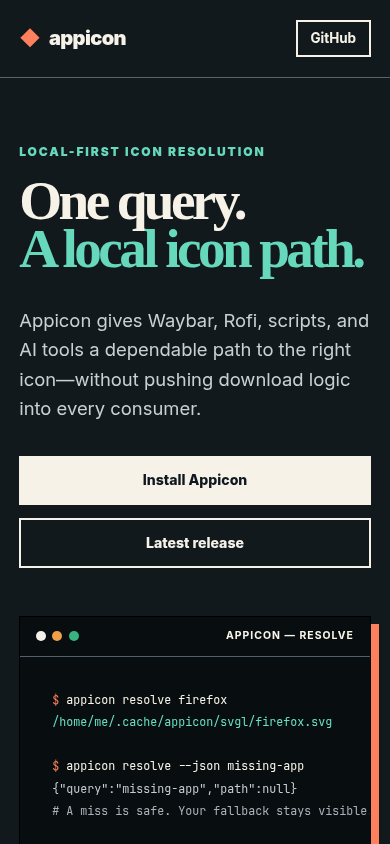
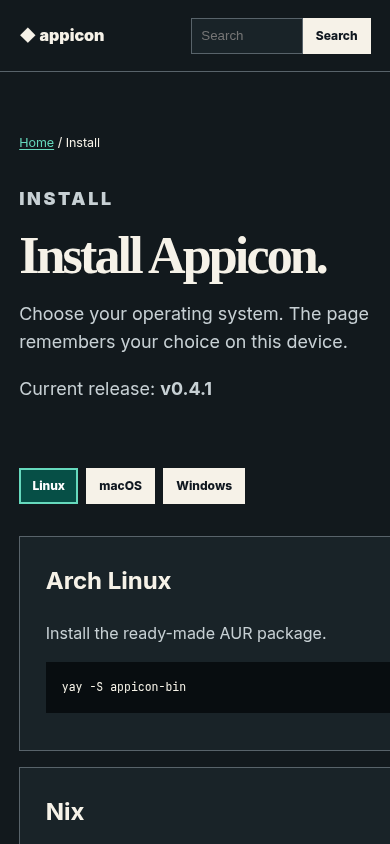
feat(pages): add task-oriented user guides

diff --git a/site/index.html b/site/index.html
@@ -4,22 +4,31 @@
   <meta charset="utf-8">
   <meta name="viewport" content="width=device-width, initial-scale=1">
   <meta name="description" content="Appicon resolves application and brand names to local icon files for desktop tools, scripts, and agents.">
+  <meta property="og:title" content="Appicon — find the right local icon">
+  <meta property="og:description" content="Install Appicon, find an icon, and solve common problems with plain-language guides.">
+  <meta property="og:image" content="https://bolens.github.io/appicon/assets/og.png">
+  <meta name="twitter:card" content="summary_large_image">
   <meta name="theme-color" content="#101820">
   <title>Appicon — local icons, one query away</title>
   <link rel="stylesheet" href="styles.css">
   <link rel="stylesheet" href="guide.css">
   <link rel="stylesheet" href="accessibility.css">
+  <link rel="stylesheet" href="assets/site.css">
+  <link rel="icon" href="assets/favicon.png" type="image/png">
+  <script src="assets/site.js" defer></script>
 </head>
-<body>
+<body data-root="">
   <a class="skip-link" href="#main">Skip to content</a>
   <header class="site-header">
-    <a class="wordmark" href="#top" aria-label="Appicon home"><span aria-hidden="true">◆</span> appicon</a>
+    <a class="wordmark" href="./" aria-label="Appicon home"><span aria-hidden="true">◆</span> appicon</a>
     <nav aria-label="Primary navigation">
-      <a href="#start">Get started</a>
-      <a href="#everyday">Use Appicon</a>
-      <a href="#help">Get help</a>
+      <a href="install/">Install</a>
+      <a href="guide/">Use Appicon</a>
+      <a href="help/">Get help</a>
+      <a href="architecture/">How it works</a>
       <a class="nav-cta" href="https://github.com/bolens/appicon">GitHub</a>
     </nav>
+    <form class="header-search" action="search/" role="search"><label class="sr-only" for="home-search">Search the guides</label><input id="home-search" name="q" type="search" placeholder="Search guides"><button type="submit">Search</button></form>
   </header>
 
   <main id="main">
@@ -29,7 +38,7 @@
         <h1 id="hero-title">One query.<br><span>A local icon path.</span></h1>
         <p class="lede">Appicon gives Waybar, Rofi, scripts, and AI tools a dependable path to the right icon—without pushing download logic into every consumer.</p>
         <div class="actions">
-          <a class="button primary" href="#install">Install Appicon</a>
+          <a class="button primary" href="install/">Install Appicon</a>
           <a class="button secondary" href="https://github.com/bolens/appicon/releases/latest">Latest release</a>
         </div>
       </div>
@@ -59,7 +68,7 @@
       </header>
       <div class="steps">
         <article><span>1</span><h3>Install Appicon</h3><p>Pick the option that matches your system. If you are unsure, use the first option for your system.</p></article>
-        <article><span>2</span><h3>Check the installation</h3><pre tabindex="0"><code>appicon version</code></pre><p>You should see a version number such as <code>v0.4.1</code>.</p></article>
+        <article><span>2</span><h3>Check the installation</h3><pre tabindex="0"><code>appicon version</code></pre><p>You should see the current version, <code>__SITE_VERSION__</code>.</p></article>
         <article><span>3</span><h3>Find an icon</h3><pre tabindex="0"><code>appicon resolve firefox</code></pre><p>Appicon prints a file path. Paste that path into the tool that needs the icon.</p></article>
       </div>
       <div class="install-choices" aria-label="Installation choices">
@@ -82,7 +91,7 @@
         <li><span>04</span><strong>SVGL</strong><small>Cache-first remote fallback</small></li>
         <li class="hit"><span>✓</span><strong>Local path</strong><small>Ready for your consumer</small></li>
       </ol>
-      <p class="architecture-link"><a href="docs/architecture/appicon.html">Explore the interactive architecture map <span aria-hidden="true">→</span></a></p>
+      <p class="architecture-link"><a href="architecture/">Learn how Appicon works <span aria-hidden="true">→</span></a></p>
     </section>
 
     <section class="section features" aria-labelledby="features-title">
@@ -120,14 +129,14 @@
 
     <section class="install" id="install" aria-labelledby="install-title">
       <div><p class="eyebrow">Technical documentation</p><h2 id="install-title">Building or integrating Appicon?</h2><p>The repository documents source builds, configuration files, MCP tools, the daemon, icon packs, schemas, security, and packaging.</p></div>
-      <ul class="technical-links"><li><a href="https://github.com/bolens/appicon/tree/main/docs">Technical documentation</a></li><li><a href="docs/architecture/appicon.html">Interactive architecture map</a></li><li><a href="https://github.com/bolens/appicon/blob/main/docs/consumer-contract.md">Consumer contract</a></li><li><a href="https://github.com/bolens/appicon/blob/main/CONTRIBUTING.md">Contributing guide</a></li></ul>
+      <ul class="technical-links"><li><a href="https://github.com/bolens/appicon/tree/main/docs">Technical documentation</a></li><li><a href="architecture/">How Appicon works</a></li><li><a href="https://github.com/bolens/appicon/blob/main/docs/consumer-contract.md">Consumer contract</a></li><li><a href="https://github.com/bolens/appicon/blob/main/CONTRIBUTING.md">Contributing guide</a></li></ul>
       <a class="button light" href="https://github.com/bolens/appicon">Open the repository</a>
     </section>
   </main>
 
   <footer>
     <p><strong>appicon</strong> · MIT licensed · Built for local-first desktops.</p>
-    <nav aria-label="Footer navigation"><a href="https://github.com/bolens/appicon/releases">Releases</a><a href="https://github.com/bolens/appicon/blob/main/SECURITY.md">Security</a><a href="https://github.com/bolens/appicon/blob/main/LICENSE">License</a></nav>
+    <nav aria-label="Footer navigation"><a href="https://github.com/bolens/appicon/releases">Releases</a><a href="https://github.com/bolens/appicon/blob/main/SECURITY.md">Security</a><a href="https://github.com/bolens/appicon/blob/main/LICENSE">License</a><a href="https://github.com/bolens/appicon/issues/new?title=Pages%20feedback%3A%20&amp;body=Page%3A%20%0A%0AWhat%20would%20make%20this%20page%20more%20helpful%3F%0A">Was this site helpful?</a></nav>
   </footer>
 </body>
 </html>

diff --git a/site/assets/site.css b/site/assets/site.css
@@ -1,0 +1,1 @@
+:root{--guide-bg:#f5f2e9;--guide-card:#fffdf7;--guide-ink:#141b21;--guide-muted:#4d5960;--guide-line:#b9b3a5;--guide-accent:#075f53;--guide-focus:#006dff;--guide-code:#0b1115;--guide-code-text:#f7f4e9;color-scheme:light;font-family:Inter,ui-sans-serif,system-ui,-apple-system,BlinkMacSystemFont,"Segoe UI",sans-serif;font-size:18px;line-height:1.6}*{box-sizing:border-box}html{scroll-behavior:smooth}body{margin:0;background:var(--guide-bg);color:var(--guide-ink)}a{color:var(--guide-accent);text-underline-offset:.2em}a:hover{text-decoration-thickness:3px}a:focus-visible,button:focus-visible,input:focus-visible,pre:focus-visible{outline:4px solid var(--guide-focus);outline-offset:3px}.sr-only{position:absolute!important;width:1px;height:1px;padding:0;margin:-1px;overflow:hidden;clip:rect(0,0,0,0);white-space:nowrap;border:0}.skip-link{position:fixed;z-index:20;left:1rem;top:1rem;transform:translateY(-180%);background:#fff;color:#000;padding:.6rem 1rem;font-weight:800}.skip-link:focus{transform:none}.docs-header{max-width:1120px;margin:auto;padding:1.1rem 2rem;display:flex;align-items:center;justify-content:space-between;border-bottom:1px solid var(--guide-line)}.docs-brand{color:var(--guide-ink);font-weight:900;text-decoration:none}.docs-nav{display:flex;align-items:center;gap:1rem}.docs-nav a{color:var(--guide-ink);font-size:.8rem;font-weight:750;text-decoration:none}.docs-search{display:flex}.docs-search input{width:10rem;border:1px solid var(--guide-line);background:var(--guide-card);color:var(--guide-ink);padding:.45rem .6rem}.docs-search button,.platform-picker button,.copy-button{border:2px solid var(--guide-ink);background:var(--guide-ink);color:#fff;font:inherit;font-size:.75rem;font-weight:850;padding:.4rem .7rem;cursor:pointer}.page-main{max-width:1120px;margin:auto;padding:5rem 2rem 7rem}.breadcrumbs{font-size:.78rem;margin-bottom:2rem}.page-hero{max-width:800px;margin-bottom:4rem}.page-kicker{text-transform:uppercase;letter-spacing:.15em;font-size:.7rem;font-weight:900;color:var(--guide-accent)}.page-hero h1{font-family:Georgia,"Times New Roman",serif;font-size:clamp(3rem,7vw,6rem);line-height:.95;letter-spacing:-.055em;margin:.3rem 0 1.2rem}.page-hero p{font-size:1.12rem;color:var(--guide-muted)}.page-grid{display:grid;grid-template-columns:repeat(2,1fr);gap:1rem}.doc-card{background:var(--guide-card);border:1px solid var(--guide-line);padding:1.6rem}.doc-card h2,.doc-card h3{margin-top:0}.doc-card p{color:var(--guide-muted)}pre{position:relative;background:var(--guide-code);color:var(--guide-code-text);padding:1rem 4.5rem 1rem 1rem;overflow:auto;font-size:.72rem}.copy-button{position:absolute;right:.5rem;top:.5rem;border-color:#c6cdd1;background:#172128}.platform-picker{display:flex;flex-wrap:wrap;gap:.5rem;margin:1.5rem 0 2rem}.platform-picker button[aria-pressed="true"]{background:var(--guide-accent);border-color:var(--guide-accent)}[hidden]{display:none!important}.task-list{border-top:1px solid var(--guide-line)}.task{padding:1.5rem 0;border-bottom:1px solid var(--guide-line);display:grid;grid-template-columns:1fr 1fr;gap:2rem;align-items:start}.task h2{margin-top:0}.callout{margin:2rem 0;padding:1.4rem;background:var(--guide-accent);color:#fff}.callout a{color:#fff}.search-page-form{display:flex;max-width:700px}.search-page-form input{flex:1;min-width:0;padding:.8rem;border:2px solid var(--guide-ink);font:inherit}.search-page-form button{border:2px solid var(--guide-ink);background:var(--guide-ink);color:#fff;padding:.8rem 1rem;font-weight:850}.search-results{list-style:none;padding:0;margin:2rem 0}.search-results li{padding:1rem 0;border-bottom:1px solid var(--guide-line)}.search-results a{font-size:1.1rem;font-weight:850}.search-results p{margin:.25rem 0;color:var(--guide-muted)}.feedback{margin-top:4rem;padding-top:2rem;border-top:1px solid var(--guide-line);font-size:.85rem}.docs-footer{max-width:1120px;margin:auto;padding:2rem;border-top:1px solid var(--guide-line);display:flex;justify-content:space-between;gap:1rem;font-size:.78rem}.docs-footer nav{display:flex;gap:1rem}@media(max-width:850px){.docs-nav>a{display:none}.page-grid,.task{grid-template-columns:1fr}.page-main{padding-top:3rem}}@media(max-width:520px){:root{font-size:16px}.docs-header,.page-main,.docs-footer{padding-inline:1.2rem}.docs-search input{width:7rem}.page-hero h1{font-size:3.25rem}.docs-footer{flex-direction:column}}@media(prefers-reduced-motion:reduce){html{scroll-behavior:auto}*{animation:none!important;transition:none!important}}@media(prefers-color-scheme:dark){:root{color-scheme:dark;--guide-bg:#12191d;--guide-card:#192328;--guide-ink:#f6f2e8;--guide-muted:#c7d0d4;--guide-line:#58636a;--guide-accent:#66d9bd;--guide-focus:#78aaff;--guide-code:#080d10}.docs-search button,.platform-picker button,.search-page-form button{background:#f6f2e8;color:#101820}.platform-picker button[aria-pressed="true"]{background:#064f46;color:#fff}.callout{background:#064f46}}@media(forced-colors: active){*{box-shadow:none!important}.copy-button,.platform-picker button,.docs-search button,.search-page-form button{border:2px solid ButtonText}.platform-picker button[aria-pressed="true"]{outline:3px solid Highlight}.callout{border:2px solid CanvasText}.sr-only{forced-color-adjust:none}}

diff --git a/site/assets/site.js b/site/assets/site.js
@@ -1,0 +1,123 @@
+(() => {
+  "use strict";
+
+  const root = document.body.dataset.root || "";
+  const live = document.createElement("p");
+  live.className = "sr-only";
+  live.setAttribute("aria-live", "polite");
+  document.body.append(live);
+
+  const copyText = async (text) => {
+    if (navigator.clipboard && window.isSecureContext) {
+      await navigator.clipboard.writeText(text);
+      return;
+    }
+    const area = document.createElement("textarea");
+    area.value = text;
+    area.setAttribute("readonly", "");
+    area.style.position = "fixed";
+    area.style.opacity = "0";
+    document.body.append(area);
+    area.select();
+    document.execCommand("copy");
+    area.remove();
+  };
+
+  document.querySelectorAll("pre").forEach((pre) => {
+    if (!pre.querySelector("code") || pre.querySelector(".copy-button")) return;
+    const button = document.createElement("button");
+    button.type = "button";
+    button.className = "copy-button";
+    button.textContent = "Copy";
+    button.setAttribute("aria-label", "Copy command");
+    button.addEventListener("click", async () => {
+      try {
+        await copyText(pre.querySelector("code").innerText);
+        button.textContent = "Copied";
+        live.textContent = "Command copied to clipboard.";
+        window.setTimeout(() => {
+          button.textContent = "Copy";
+        }, 1800);
+      } catch {
+        live.textContent = "Copy failed. Select the command and copy it manually.";
+      }
+    });
+    pre.append(button);
+  });
+
+  const platformButtons = [...document.querySelectorAll("[data-os]")];
+  const platformPanels = [...document.querySelectorAll("[data-platforms]")];
+  const selectPlatform = (platform) => {
+    platformButtons.forEach((button) => {
+      button.setAttribute("aria-pressed", String(button.dataset.os === platform));
+    });
+    platformPanels.forEach((panel) => {
+      panel.hidden = !panel.dataset.platforms.split(" ").includes(platform);
+    });
+    try {
+      localStorage.setItem("docs-platform", platform);
+    } catch {}
+  };
+  if (platformButtons.length) {
+    platformButtons.forEach((button) => {
+      button.addEventListener("click", () => selectPlatform(button.dataset.os));
+    });
+    let selected;
+    try {
+      selected = localStorage.getItem("docs-platform");
+    } catch {}
+    if (!selected) {
+      const platform = navigator.platform.toLowerCase();
+      selected = platform.includes("win") ? "windows" : platform.includes("mac") ? "macos" : "linux";
+    }
+    if (!platformButtons.some((button) => button.dataset.os === selected)) selected = platformButtons[0].dataset.os;
+    selectPlatform(selected);
+  }
+
+  const searchForm = document.querySelector("[data-search-form]");
+  if (searchForm && !document.querySelector("[data-search-results]")) {
+    searchForm.addEventListener("submit", (event) => {
+      event.preventDefault();
+      const query = new FormData(searchForm).get("q");
+      window.location.href = root + "search/?q=" + encodeURIComponent(query);
+    });
+  }
+
+  const results = document.querySelector("[data-search-results]");
+  if (results) {
+    const input = document.querySelector("[data-search-input]");
+    const count = document.querySelector("[data-search-count]");
+    const runSearch = async () => {
+      const query = input.value.trim().toLowerCase();
+      const response = await fetch(root + "search-index.json");
+      const records = await response.json();
+      const matches = query
+        ? records.filter((record) => (record.title + " " + record.summary + " " + record.keywords).toLowerCase().includes(query))
+        : records;
+      results.replaceChildren(...matches.map((record) => {
+        const item = document.createElement("li");
+        const link = document.createElement("a");
+        link.href = root + record.url;
+        link.textContent = record.title;
+        const summary = document.createElement("p");
+        summary.textContent = record.summary;
+        item.append(link, summary);
+        return item;
+      }));
+      count.textContent = matches.length + (matches.length === 1 ? " result" : " results");
+    };
+    const initial = new URLSearchParams(window.location.search).get("q") || "";
+    input.value = initial;
+    document.querySelector("[data-search-form]").addEventListener("submit", (event) => {
+      event.preventDefault();
+      const url = new URL(window.location.href);
+      url.searchParams.set("q", input.value);
+      history.replaceState({}, "", url);
+      runSearch();
+    });
+    runSearch().catch(() => {
+      count.textContent = "Search is unavailable. Use the navigation links instead.";
+    });
+  }
+})();
+

diff --git a/site/install/index.html b/site/install/index.html
@@ -1,0 +1,29 @@
+<!doctype html>
+<html lang="en">
+<head>
+  <meta charset="utf-8">
+  <meta name="viewport" content="width=device-width, initial-scale=1">
+  <meta name="description" content="Choose the Appicon installation instructions for your operating system.">
+  <meta property="og:title" content="Install Appicon | Appicon">
+  <meta property="og:description" content="Choose the Appicon installation instructions for your operating system.">
+  <meta property="og:image" content="https://bolens.github.io/appicon/assets/og.png">
+  <meta name="twitter:card" content="summary_large_image">
+  <title>Install Appicon | Appicon</title>
+  <link rel="icon" type="image/png" href="../assets/favicon.png">
+  <link rel="stylesheet" href="../assets/site.css">
+  <script src="../assets/site.js" defer></script>
+</head>
+<body data-root="../">
+  <a class="skip-link" href="#main">Skip to content</a>
+  <header class="docs-header">
+    <a class="docs-brand" href="../">◆ appicon</a>
+    <nav class="docs-nav" aria-label="Documentation">
+      <a href="../install/">Install</a><a href="../guide/">Use</a><a href="../help/">Help</a><a href="../architecture/">Architecture</a>
+      <form class="docs-search" role="search" data-search-form><label class="sr-only" for="site-search">Search guides</label><input id="site-search" name="q" type="search" placeholder="Search"><button>Search</button></form>
+    </nav>
+  </header>
+  <main class="page-main" id="main"><p class="breadcrumbs"><a href="../">Home</a> / Install</p><header class="page-hero"><p class="page-kicker">Install</p><h1>Install Appicon.</h1><p>Choose your operating system. The page remembers your choice on this device.</p><p>Current release: <strong>__SITE_VERSION__</strong></p></header><div class="platform-picker" role="group" aria-label="Operating system"><button type="button" data-os="linux" aria-pressed="false">Linux</button><button type="button" data-os="macos" aria-pressed="false">macOS</button><button type="button" data-os="windows" aria-pressed="false">Windows</button></div><section data-platforms="linux"><div class="page-grid"><article class="doc-card"><h2>Arch Linux</h2><p>Install the ready-made AUR package.</p><pre tabindex="0"><code>yay -S appicon-bin</code></pre></article><article class="doc-card"><h2>Nix</h2><p>Install the ready-made flake package.</p><pre tabindex="0"><code>nix profile install github:bolens/appicon#appicon-bin</code></pre></article></div></section><section data-platforms="macos"><article class="doc-card"><h2>Download the macOS archive</h2><p>Open the latest release and choose the archive for your Mac processor. Move the <code>appicon</code> file to a directory on your PATH.</p><a href="https://github.com/bolens/appicon/releases/latest">Open the latest release</a></article></section><section data-platforms="windows"><article class="doc-card"><h2>Download the Windows archive</h2><p>Open the latest release and choose the Windows archive. Extract <code>appicon.exe</code> to a directory on your PATH.</p><a href="https://github.com/bolens/appicon/releases/latest">Open the latest release</a></article></section><div class="callout"><h2>Check the installation</h2><pre tabindex="0"><code>appicon version</code></pre><p>The command prints <code>__SITE_VERSION__</code>.</p></div><p class="feedback">Did this page answer your question? <a href="https://github.com/bolens/appicon/issues/new?title=Pages%20feedback%3A%20">Suggest an improvement</a>.</p></main>
+  <footer class="docs-footer"><p>Appicon <span data-version>__SITE_VERSION__</span> · MIT licensed</p><nav aria-label="Footer"><a href="https://github.com/bolens/appicon">Repository</a><a href="https://github.com/bolens/appicon/releases/latest">Release</a></nav></footer>
+</body>
+</html>
+

diff --git a/site/guide/index.html b/site/guide/index.html
@@ -1,0 +1,29 @@
+<!doctype html>
+<html lang="en">
+<head>
+  <meta charset="utf-8">
+  <meta name="viewport" content="width=device-width, initial-scale=1">
+  <meta name="description" content="Resolve icons, work offline, create PNG files, and correct matches with Appicon.">
+  <meta property="og:title" content="Use Appicon | Appicon">
+  <meta property="og:description" content="Resolve icons, work offline, create PNG files, and correct matches with Appicon.">
+  <meta property="og:image" content="https://bolens.github.io/appicon/assets/og.png">
+  <meta name="twitter:card" content="summary_large_image">
+  <title>Use Appicon | Appicon</title>
+  <link rel="icon" type="image/png" href="../assets/favicon.png">
+  <link rel="stylesheet" href="../assets/site.css">
+  <script src="../assets/site.js" defer></script>
+</head>
+<body data-root="../">
+  <a class="skip-link" href="#main">Skip to content</a>
+  <header class="docs-header">
+    <a class="docs-brand" href="../">◆ appicon</a>
+    <nav class="docs-nav" aria-label="Documentation">
+      <a href="../install/">Install</a><a href="../guide/">Use</a><a href="../help/">Help</a><a href="../architecture/">Architecture</a>
+      <form class="docs-search" role="search" data-search-form><label class="sr-only" for="site-search">Search guides</label><input id="site-search" name="q" type="search" placeholder="Search"><button>Search</button></form>
+    </nav>
+  </header>
+  <main class="page-main" id="main"><p class="breadcrumbs"><a href="../">Home</a> / Use</p><header class="page-hero"><p class="page-kicker">Common tasks</p><h1>Use Appicon.</h1><p>Start with the application name shown in your launcher. Appicon prints a local file path.</p></header><div class="task-list"><article class="task"><div><h2>Find one icon</h2><p>Use the application name that you see.</p></div><pre tabindex="0"><code>appicon resolve firefox</code></pre></article><article class="task"><div><h2>Create a small PNG</h2><p>Use this command for a bar or menu that cannot display SVG files.</p></div><pre tabindex="0"><code>appicon resolve --format png --size 24 firefox</code></pre></article><article class="task"><div><h2>Work offline</h2><p>Offline mode uses only icons Appicon already has.</p></div><pre tabindex="0"><code>appicon resolve --offline firefox</code></pre></article><article class="task"><div><h2>Correct a wrong match</h2><p>Map your application name to a known icon.</p></div><pre tabindex="0"><code>appicon override set my-browser firefox</code></pre></article></div><div class="callout"><h2>If Appicon prints nothing</h2><p>Appicon did not find the icon. Try a shorter name or check the spelling. Keep a fallback icon in your bar or launcher.</p></div><p class="feedback">Did this page answer your question? <a href="https://github.com/bolens/appicon/issues/new?title=Pages%20feedback%3A%20">Suggest an improvement</a>.</p></main>
+  <footer class="docs-footer"><p>Appicon <span data-version>__SITE_VERSION__</span> · MIT licensed</p><nav aria-label="Footer"><a href="https://github.com/bolens/appicon">Repository</a><a href="https://github.com/bolens/appicon/releases/latest">Release</a></nav></footer>
+</body>
+</html>
+

diff --git a/site/help/index.html b/site/help/index.html
@@ -1,0 +1,30 @@
+<!doctype html>
+<html lang="en">
+<head>
+  <meta charset="utf-8">
+  <meta name="viewport" content="width=device-width, initial-scale=1">
+  <meta name="description" content="Fix common Appicon icon matching, network, and cache problems.">
+  <meta property="og:title" content="Get help | Appicon">
+  <meta property="og:description" content="Fix common Appicon icon matching, network, and cache problems.">
+  <meta property="og:image" content="https://bolens.github.io/appicon/assets/og.png">
+  <meta name="twitter:card" content="summary_large_image">
+  <title>Get help | Appicon</title>
+  <link rel="icon" type="image/png" href="../assets/favicon.png">
+  <link rel="stylesheet" href="../assets/site.css">
+  <script src="../assets/site.js" defer></script>
+</head>
+<body data-root="../">
+  <a class="skip-link" href="#main">Skip to content</a>
+  <header class="docs-header">
+    <a class="docs-brand" href="../">◆ appicon</a>
+    <nav class="docs-nav" aria-label="Documentation">
+      <a href="../install/">Install</a><a href="../guide/">Use</a><a href="../help/">Help</a><a href="../architecture/">Architecture</a>
+      <form class="docs-search" role="search" data-search-form><label class="sr-only" for="site-search">Search guides</label><input id="site-search" name="q" type="search" placeholder="Search"><button>Search</button></form>
+    </nav>
+  </header>
+  <main class="page-main" id="main"><p class="breadcrumbs"><a href="../">Home</a> / Help</p><header class="page-hero"><p class="page-kicker">Troubleshooting</p><h1>Start with a status check.</h1><pre tabindex="0"><code>appicon status</code></pre></header><div class="page-grid"><article class="doc-card"><h2>The icon is wrong</h2><p>Run <code>appicon resolve --explain NAME</code>. The output names the source. Add an override if you want another match.</p></article><article class="doc-card"><h2>Remote icons do not load</h2><p>Check your enabled sources in the status output. Cached icons continue to work offline.</p></article><article class="doc-card"><h2>The cache is too large</h2><pre tabindex="0"><code>appicon cache stats
+appicon cache prune</code></pre><p>Pruning removes old cached files. It keeps your settings.</p></article><article class="doc-card"><h2>You found a bug</h2><p>Include the output from <code>appicon status</code> and the name you tried. Remove API keys before posting.</p><a href="https://github.com/bolens/appicon/issues/new/choose">Report a problem</a></article></div><p class="feedback">Did this page answer your question? <a href="https://github.com/bolens/appicon/issues/new?title=Pages%20feedback%3A%20">Suggest an improvement</a>.</p></main>
+  <footer class="docs-footer"><p>Appicon <span data-version>__SITE_VERSION__</span> · MIT licensed</p><nav aria-label="Footer"><a href="https://github.com/bolens/appicon">Repository</a><a href="https://github.com/bolens/appicon/releases/latest">Release</a></nav></footer>
+</body>
+</html>
+

diff --git a/site/architecture/index.html b/site/architecture/index.html
@@ -1,0 +1,29 @@
+<!doctype html>
+<html lang="en">
+<head>
+  <meta charset="utf-8">
+  <meta name="viewport" content="width=device-width, initial-scale=1">
+  <meta name="description" content="A plain-language introduction to the Appicon architecture topology.">
+  <meta property="og:title" content="How Appicon works | Appicon">
+  <meta property="og:description" content="A plain-language introduction to the Appicon architecture topology.">
+  <meta property="og:image" content="https://bolens.github.io/appicon/assets/og.png">
+  <meta name="twitter:card" content="summary_large_image">
+  <title>How Appicon works | Appicon</title>
+  <link rel="icon" type="image/png" href="../assets/favicon.png">
+  <link rel="stylesheet" href="../assets/site.css">
+  <script src="../assets/site.js" defer></script>
+</head>
+<body data-root="../">
+  <a class="skip-link" href="#main">Skip to content</a>
+  <header class="docs-header">
+    <a class="docs-brand" href="../">◆ appicon</a>
+    <nav class="docs-nav" aria-label="Documentation">
+      <a href="../install/">Install</a><a href="../guide/">Use</a><a href="../help/">Help</a><a href="../architecture/">Architecture</a>
+      <form class="docs-search" role="search" data-search-form><label class="sr-only" for="site-search">Search guides</label><input id="site-search" name="q" type="search" placeholder="Search"><button>Search</button></form>
+    </nav>
+  </header>
+  <main class="page-main" id="main"><p class="breadcrumbs"><a href="../">Home</a> / Architecture</p><header class="page-hero"><p class="page-kicker">Architecture</p><h1>How Appicon finds an icon.</h1><p>Every request moves through an ordered list of sources. Appicon checks local overrides and desktop files first. It uses an enabled remote source only when local sources miss.</p></header><div class="page-grid"><article class="doc-card"><h2>What the map shows</h2><p>The topology follows requests from the CLI, MCP server, or optional daemon into one shared resolver. It also shows the cache and each icon source.</p></article><article class="doc-card"><h2>Who needs the map</h2><p>Use it when you integrate Appicon, add a source, debug resolution order, or contribute code.</p></article></div><div class="callout"><h2>Open the interactive topology</h2><p>The diagram supports light and dark themes, keyboard navigation, search, and export.</p><a href="../docs/architecture/appicon.html">Explore the Appicon architecture</a></div><p class="feedback">Did this page answer your question? <a href="https://github.com/bolens/appicon/issues/new?title=Pages%20feedback%3A%20">Suggest an improvement</a>.</p></main>
+  <footer class="docs-footer"><p>Appicon <span data-version>__SITE_VERSION__</span> · MIT licensed</p><nav aria-label="Footer"><a href="https://github.com/bolens/appicon">Repository</a><a href="https://github.com/bolens/appicon/releases/latest">Release</a></nav></footer>
+</body>
+</html>
+

diff --git a/site/search/index.html b/site/search/index.html
@@ -1,0 +1,29 @@
+<!doctype html>
+<html lang="en">
+<head>
+  <meta charset="utf-8">
+  <meta name="viewport" content="width=device-width, initial-scale=1">
+  <meta name="description" content="Search the Appicon user guides.">
+  <meta property="og:title" content="Search guides | Appicon">
+  <meta property="og:description" content="Search the Appicon user guides.">
+  <meta property="og:image" content="https://bolens.github.io/appicon/assets/og.png">
+  <meta name="twitter:card" content="summary_large_image">
+  <title>Search guides | Appicon</title>
+  <link rel="icon" type="image/png" href="../assets/favicon.png">
+  <link rel="stylesheet" href="../assets/site.css">
+  <script src="../assets/site.js" defer></script>
+</head>
+<body data-root="../">
+  <a class="skip-link" href="#main">Skip to content</a>
+  <header class="docs-header">
+    <a class="docs-brand" href="../">◆ appicon</a>
+    <nav class="docs-nav" aria-label="Documentation">
+      <a href="../install/">Install</a><a href="../guide/">Use</a><a href="../help/">Help</a><a href="../architecture/">Architecture</a>
+      <form class="docs-search" role="search" data-search-form><label class="sr-only" for="site-search">Search guides</label><input id="site-search" name="q" type="search" placeholder="Search"><button>Search</button></form>
+    </nav>
+  </header>
+  <main class="page-main" id="main"><p class="breadcrumbs"><a href="../">Home</a> / Search</p><header class="page-hero"><p class="page-kicker">Search</p><h1>Search the guides.</h1></header><form class="search-page-form" role="search" data-search-form><label class="sr-only" for="guide-search">Search guides</label><input id="guide-search" data-search-input name="q" type="search" autocomplete="off"><button>Search</button></form><p data-search-count aria-live="polite"></p><ul class="search-results" data-search-results></ul><p class="feedback">Did this page answer your question? <a href="https://github.com/bolens/appicon/issues/new?title=Pages%20feedback%3A%20">Suggest an improvement</a>.</p></main>
+  <footer class="docs-footer"><p>Appicon <span data-version>__SITE_VERSION__</span> · MIT licensed</p><nav aria-label="Footer"><a href="https://github.com/bolens/appicon">Repository</a><a href="https://github.com/bolens/appicon/releases/latest">Release</a></nav></footer>
+</body>
+</html>
+

diff --git a/docs/site-evidence/README.md b/docs/site-evidence/README.md
@@ -5,17 +5,21 @@ The Pages landing page was rendered from `site/` and inspected at these viewport
 | Viewport | Evidence | Layout result |
 | --- | --- | --- |
 | 1440 × 1000 | [Desktop](desktop.png) | Two-column hero, visible primary navigation, four-column proof strip |
-| 390 × 844 | [Mobile](mobile.png) | Single-column flow, full-width actions, compact navigation, no horizontal page overflow |
+| 390 × 844 | [Mobile install guide](mobile.png) | Operating-system choices and install cards reflow without horizontal page overflow |
+| 1440 × 1000 | [Forced colors](forced-colors.png) | Navigation, code, buttons, borders, and focus affordances remain distinct in Chromium high-contrast mode |
+| 720 × 500 at 2× scale | [200% scale](zoom-200.png) | Help content remains readable without clipped text or overlapping controls |
 | 1440 × 6000 | [Full desktop guide](guide-desktop.png) | Installation choices, first-use steps, task guides, help, and technical handoff |
 | 390 × 6000 | [Full mobile guide](guide-mobile.png) | User guide reflows into one readable column with scrollable commands |
 
-Lighthouse 13.4.1 reported an accessibility score of **100/100** with no failed binary audits on August 31, 2026. Separate light- and dark-mode runs covered accessible names, landmarks, heading order, link names, focusable controls, and color contrast.
+Lighthouse 12.8.2 reported an accessibility score of **100/100** with no failed accessibility audits on August 31, 2026. The first run exposed overlapping copy-button targets on the landing page. Making every code block its positioning container resolved the failure.
 
 The layout also provides:
 
 - a keyboard-visible skip link and focus indicator;
+- keyboard-operable copy buttons and operating-system choices with live status updates;
 - semantic header, navigation, main, section, article, list, and footer landmarks;
 - text alternatives for decorative marks and a text description for the terminal example;
 - reflow breakpoints at 850 and 480 CSS pixels;
 - a reduced-motion mode that disables smooth scrolling and animation;
 - light and dark palettes with contrast validated in the rendered page.
+- forced-color rules that preserve control boundaries and selected states.
